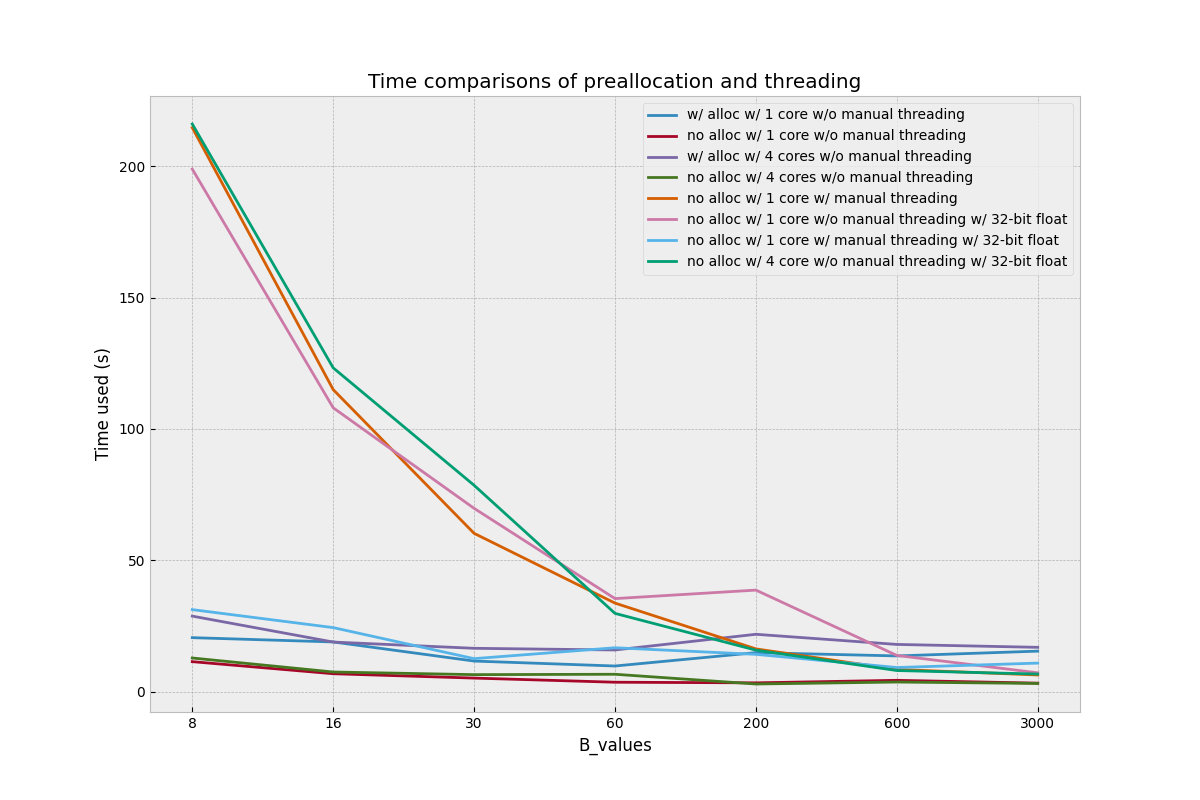
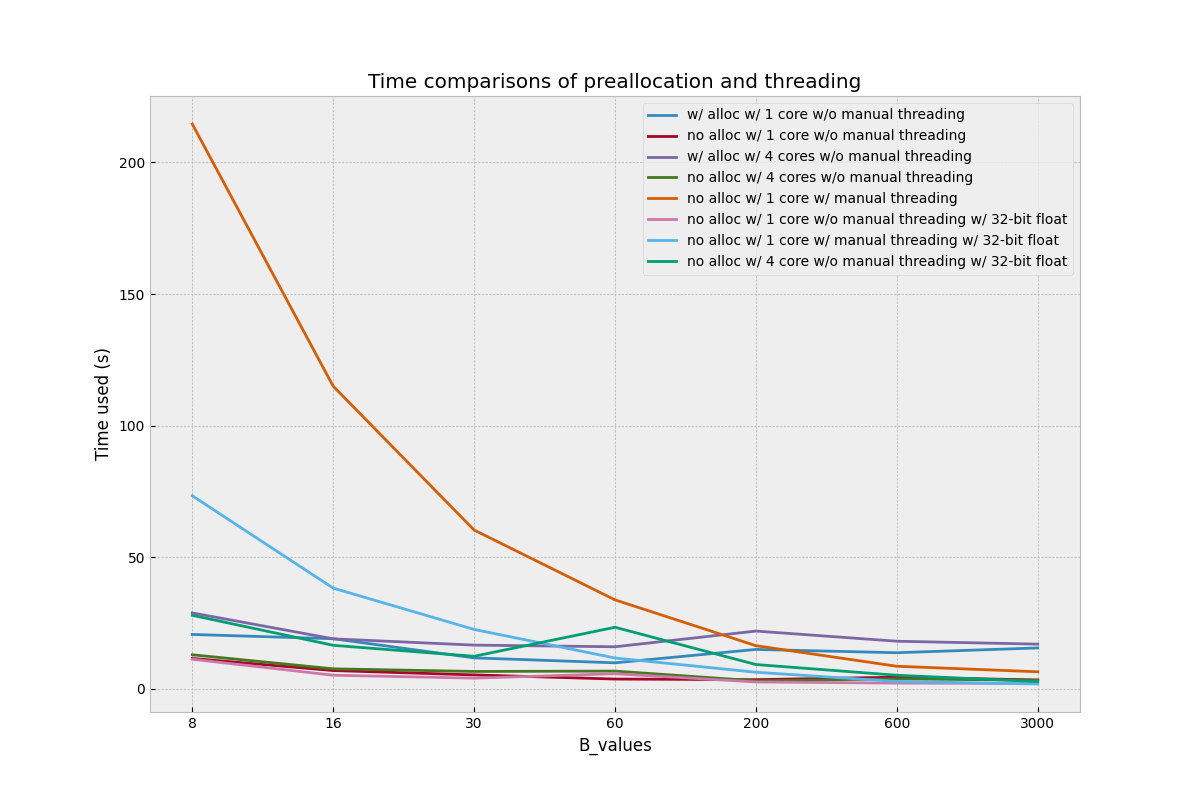
Final submission for PA6

diff --git a/pa6release/release/main.py b/pa6release/release/main.py
@@ -4,7 +4,7 @@ import os
 # BEGIN THREAD SETTINGS this sets the number of threads used by numpy in the program (should be set to 1 for Parts 1 and 3)
 import numpy as np
 
-implicit_num_threads = 4
+implicit_num_threads = 1
 os.environ["OMP_NUM_THREADS"] = str(implicit_num_threads)
 os.environ["MKL_NUM_THREADS"] = str(implicit_num_threads)
 os.environ["OPENBLAS_NUM_THREADS"] = str(implicit_num_threads)
@@ -47,7 +47,6 @@ def multinomial_logreg_grad_i(Xs, Ys, ii, gamma, W):
 
 def load_MNIST_dataset():
     PICKLE_FILE = os.path.join(mnist_data_directory, "MNIST.pickle")
-    PICKLE_FILE = "C:\\Users\\hyun0\\Documents\\CS4787\\cs4787\\pa3release\\data\\MNIST.pickle"
     try:
         dataset = pickle.load(open(PICKLE_FILE, 'rb'))
     except:
@@ -75,6 +74,8 @@ def load_MNIST_dataset():
     return dataset
 
 
+# Constants:
+B_values = [8, 16, 30, 60, 200, 600, 3000]
 
 # SGD + Momentum (adapt from Programming Assignment 3)
 #
@@ -220,9 +221,6 @@ def sgd_mss_with_momentum_threaded(Xs, Ys, gamma, W0, alpha, beta, B, num_epochs
 
     Xs_splits = []
     Ys_splits = []
-    # n = 256 = 2^8
-    # B = 16 = 2^4
-    # num_threads = 4
 
     for i in range(int(n / B * num_threads)):
         Xs_splits.append(numpy.ascontiguousarray(Xs[:, i * B_prime:i * B_prime + B_prime]))
@@ -320,15 +318,15 @@ def sgd_mss_with_momentum_noalloc_float32(Xs, Ys, gamma, W0, alpha, beta, B, num
     Xs_splits = []
     Ys_splits = []
     for i in range(int(n / B)):
-        Xs_splits.append(numpy.ascontiguousarray(Xs[:, i * B:i * B + B]))
-        Ys_splits.append(Ys[:, i * B:i * B + B])
+        Xs_splits.append(numpy.ascontiguousarray(Xs[:, i * B:i * B + B]).astype(numpy.float32))
+        Ys_splits.append(Ys[:, i * B:i * B + B].astype(numpy.float32))
 
     print("Running minibatch sequential-scan SGD with momentum (no allocation) and float32")
     for it in tqdm(range(num_epochs)):
         for ibatch in range(int(n / B)):
             # TODO this section of code should only use numpy operations with the "out=" argument specified (students should implement this)
-            XS_split = Xs_splits[ibatch].astype(numpy.float32)
-            Ys_split = Ys_splits[ibatch].astype(numpy.float32)
+            XS_split = Xs_splits[ibatch]
+            Ys_split = Ys_splits[ibatch]
 
             numpy.dot(W, XS_split, out=cb1)  # (c,d) x (d,b) = (c,b) cb1
             numpy.amax(cb1, axis=0, out=b1)  # (c,b) cb2
@@ -381,8 +379,8 @@ def sgd_mss_with_momentum_threaded_float32(Xs, Ys, gamma, W0, alpha, beta, B, nu
     # num_threads = 4
 
     for i in range(int(n / B * num_threads)):
-        Xs_splits.append(numpy.ascontiguousarray(Xs[:, i * B_prime:i * B_prime + B_prime]))
-        Ys_splits.append(Ys[:, i * B_prime:i * B_prime + B_prime])
+        Xs_splits.append(numpy.ascontiguousarray(Xs[:, i * B_prime:i * B_prime + B_prime]).astype(numpy.float32))
+        Ys_splits.append(Ys[:, i * B_prime:i * B_prime + B_prime].astype(numpy.float32))
 
     # a function for each thread to run
     def thread_main(ithread):
@@ -395,8 +393,8 @@ def sgd_mss_with_momentum_threaded_float32(Xs, Ys, gamma, W0, alpha, beta, B, nu
         for it in range(num_epochs):
             for ibatch in range(int(n / B)):
                 # TODO work done by thread in each iteration; this section of code should primarily use numpy operations with the "out=" argument specified (students should implement this)
-                Xs_split = Xs_splits[ibatch * num_threads + ithread].astype(numpy.float32)
-                Ys_split = Ys_splits[ibatch * num_threads + ithread].astype(numpy.float32)
+                Xs_split = Xs_splits[ibatch * num_threads + ithread]
+                Ys_split = Ys_splits[ibatch * num_threads + ithread]
 
                 numpy.dot(W, Xs_split, out=cb1)  # (c,d) x (d,b) = (c,b) cb1
                 numpy.amax(cb1, axis=0, out=b1)  # (c,b) cb2
@@ -440,27 +438,35 @@ def sgd_mss_with_momentum_threaded_float32(Xs, Ys, gamma, W0, alpha, beta, B, nu
     # return the learned model
     return W
 
-def plot_time(t1s,t2s,B_values,cores=1):
+def plot_time_pt1():
     pyplot.figure(figsize=(12, 8))
-    pyplot.scatter(np.linspace(np.min(B_values),np.max(B_values),len(B_values)), t1s, label="t1")
-    pyplot.scatter(np.linspace(np.min(B_values),np.max(B_values),len(B_values)), t2s, label="t2",marker='x')
-    t1_plot = pyplot.plot(np.linspace(np.min(B_values),np.max(B_values),len(B_values)), t1s)
-    t1_plot.set_label('w/o preallocation & w/o manual threading')
-    t2_plot = pyplot.plot(np.linspace(np.min(B_values),np.max(B_values),len(B_values)), t2s)
-    t2_plot.set_label('w/ preallocation & w/o manual threading')
+    t1s_single_core_filepath = 't1s_1_core.npy'
+    t2s_single_core_filepath = 't2s_1_core.npy'
+    t1s_single_core = numpy.load(t1s_single_core_filepath)
+    t2s_single_core = numpy.load(t2s_single_core_filepath)
+    # pyplot.scatter(np.linspace(np.min(B_values),np.max(B_values),len(B_values)), t1s, label="t1")
+    # pyplot.scatter(np.linspace(np.min(B_values),np.max(B_values),len(B_values)), t2s, label="t2",marker='x')
+    t1_plot, = pyplot.plot(np.linspace(np.min(B_values), np.max(B_values), len(B_values)), t1s_single_core)
+    t1_plot.set_label("w/ alloc w/ 1 core w/o manual threading")
+    t2_plot, = pyplot.plot(np.linspace(np.min(B_values), np.max(B_values), len(B_values)), t2s_single_core)
+    t2_plot.set_label("no alloc w/ 1 core w/o manual threading")
 
     pyplot.title("Time comparison of preallocation")
     pyplot.xticks(np.linspace(np.min(B_values),np.max(B_values),len(B_values)),B_values)
     pyplot.xlabel("B_values")
     pyplot.ylabel("Time used (s)")
     pyplot.legend()
-    pyplot.savefig(f"runtime_part_cores{cores}")
+    pyplot.savefig(f"Impact of Preallocation")
     pyplot.plot()
     # pyplot.show()
     # pyplot.clf()
 
-def plot_time_pt2(t1s_single_core, t2s_single_core, t1s_multi_core, t2s_multi_core, B_values, cores=implicit_num_threads):
+def plot_time_pt2(cores=implicit_num_threads):
     pyplot.figure(figsize=(12, 8))
+    t1s_single_core = numpy.load('t1s_1_core.npy')
+    t2s_single_core = numpy.load('t2s_1_core.npy')
+    t1s_multi_core = numpy.load('t1s_4_core.npy')
+    t2s_multi_core = numpy.load('t2s_4_core.npy')
     t1_plot, = pyplot.plot(np.linspace(np.min(B_values), np.max(B_values), len(B_values)), t1s_single_core)
     t1_plot.set_label(f"w/o preallocation w/ 1 core")
     t2_plot, = pyplot.plot(np.linspace(np.min(B_values), np.max(B_values), len(B_values)), t2s_single_core)
@@ -479,16 +485,13 @@ def plot_time_pt2(t1s_single_core, t2s_single_core, t1s_multi_core, t2s_multi_co
     # pyplot.show()
     # pyplot.clf()
 
-def plot_time_pt3(ts_manual_threading, B_values, cores=1):
+def plot_time_pt3(cores=1):
     pyplot.figure(figsize=(12, 8))
-    t1s_single_core_filepath = 't1s_1_core.npy'
-    t2s_single_core_filepath = 't2s_1_core.npy'
-    t1s_multi_core_filepath = f't1s_4_core.npy'
-    t2s_multi_core_filepath = f't2s_4_core.npy'
-    t1s_single_core = numpy.load(t1s_single_core_filepath)
-    t2s_single_core = numpy.load(t2s_single_core_filepath)
-    t1s_multi_core = numpy.load(t1s_multi_core_filepath)
-    t2s_multi_core = numpy.load(t2s_multi_core_filepath)
+    t1s_single_core = numpy.load('t1s_1_core.npy')
+    t2s_single_core = numpy.load('t2s_1_core.npy')
+    t1s_multi_core = numpy.load('t1s_4_core.npy')
+    t2s_multi_core = numpy.load('t2s_4_core.npy')
+    ts_manual_threading = numpy.load('manual_threaded.npy')
     t1_plot, = pyplot.plot(np.linspace(np.min(B_values), np.max(B_values), len(B_values)), t1s_single_core)
     t1_plot.set_label(f"w/o preallocation w/ 1 core w/o manual threading")
     t2_plot, = pyplot.plot(np.linspace(np.min(B_values), np.max(B_values), len(B_values)), t2s_single_core)
@@ -504,10 +507,47 @@ def plot_time_pt3(ts_manual_threading, B_values, cores=1):
     pyplot.xlabel("B_values")
     pyplot.ylabel("Time used (s)")
     pyplot.legend()
-    pyplot.savefig("Impact of Preallocation and Threading")
+    pyplot.savefig("Impact of Preallocation and Threading Types")
     pyplot.plot()
     # pyplot.show()
     # pyplot.clf()
+
+def plot_time_pt4():
+    pyplot.figure(figsize=(12, 8))
+    t1s_single_core = numpy.load('t1s_1_core.npy')
+    t2s_single_core = numpy.load('t2s_1_core.npy')
+    t1s_multi_core = numpy.load('t1s_4_core.npy')
+    t2s_multi_core = numpy.load('t2s_4_core.npy')
+    ts_manual_threading = numpy.load('manual_threaded.npy')
+    p6 = numpy.load('no_alloc_float32_1_core_no_implicit.npy')
+    p7 = numpy.load('no_alloc_float32_1_core_explicit.npy')
+    p8 = numpy.load('no_alloc_float32_1_core_implicit.npy')
+    t1_plot, = pyplot.plot(np.linspace(np.min(B_values), np.max(B_values), len(B_values)), t1s_single_core)
+    t1_plot.set_label("w/ alloc w/ 1 core w/o manual threading")
+    t2_plot, = pyplot.plot(np.linspace(np.min(B_values), np.max(B_values), len(B_values)), t2s_single_core)
+    t2_plot.set_label("no alloc w/ 1 core w/o manual threading")
+    t3_plot, = pyplot.plot(np.linspace(np.min(B_values), np.max(B_values), len(B_values)), t1s_multi_core)
+    t3_plot.set_label("w/ alloc w/ 4 cores w/o manual threading")
+    t4_plot, = pyplot.plot(np.linspace(np.min(B_values), np.max(B_values), len(B_values)), t2s_multi_core)
+    t4_plot.set_label("no alloc w/ 4 cores w/o manual threading")
+    t5_plot, = pyplot.plot(np.linspace(np.min(B_values), np.max(B_values), len(B_values)), ts_manual_threading)
+    t5_plot.set_label('no alloc w/ 1 core w/ manual threading')
+    t6_plot, = pyplot.plot(np.linspace(np.min(B_values), np.max(B_values), len(B_values)), p6)
+    t6_plot.set_label('no alloc w/ 1 core w/o manual threading w/ 32-bit float')
+    t7_plot, = pyplot.plot(np.linspace(np.min(B_values), np.max(B_values), len(B_values)), p7)
+    t7_plot.set_label('no alloc w/ 1 core w/ manual threading w/ 32-bit float')
+    t8_plot, = pyplot.plot(np.linspace(np.min(B_values), np.max(B_values), len(B_values)), p8)
+    t8_plot.set_label('no alloc w/ 4 core w/o manual threading w/ 32-bit float')
+    pyplot.title("Time comparisons of preallocation and threading")
+    pyplot.xticks(np.linspace(np.min(B_values), np.max(B_values), len(B_values)), B_values)
+    pyplot.xlabel("B_values")
+    pyplot.ylabel("Time used (s)")
+    pyplot.legend()
+    pyplot.savefig("Impact of Preallocation and Threading and Precision")
+    pyplot.plot()
+    # pyplot.show()
+    # pyplot.clf()
+
 
 
 def part12(Xs_tr, Ys_tr, Xs_te, Ys_te):
@@ -518,7 +558,6 @@ def part12(Xs_tr, Ys_tr, Xs_te, Ys_te):
     gamma = 0.0001
     num_epochs = 20
     W0 = numpy.random.rand(c,d)
-    B_values = [8,16,30,64,200,600,3000]
     # B_values = [8,16]
     t1s = []
     t2s = []
@@ -556,7 +595,7 @@ def part12(Xs_tr, Ys_tr, Xs_te, Ys_te):
     t1s_multi_core = numpy.load(t1s_multi_core_filepath)
     t2s_multi_core = numpy.load(t2s_multi_core_filepath)
 
-    plot_time_pt2(t1s_single_core, t2s_single_core, t1s_multi_core, t2s_multi_core, B_values, 4)
+    plot_time_pt2(t1s_single_core, t2s_single_core, t1s_multi_core, t2s_multi_core, 4)
 
 def part3(Xs_tr, Ys_tr, Xs_te, Ys_te):
     (d, n) = Xs_tr.shape
@@ -567,7 +606,6 @@ def part3(Xs_tr, Ys_tr, Xs_te, Ys_te):
     num_epochs = 20
     n_threads = 4
     W0 = numpy.random.rand(c,d)
-    B_values = [8,16,30,60,200,600,3000]
     t3s = []
     for B_size in B_values:
         B = B_size
@@ -584,7 +622,7 @@ def part3(Xs_tr, Ys_tr, Xs_te, Ys_te):
     t3s = numpy.asarray(t3s)
     t3s_filepath = f'manual_threaded.npy'
     numpy.save(t3s_filepath, t3s)
-    plot_time_pt3(t3s, B_values)
+    plot_time_pt3(t3s)
 
 def part4(Xs_tr, Ys_tr, Xs_te, Ys_te):
     (d, n) = Xs_tr.shape
@@ -595,82 +633,34 @@ def part4(Xs_tr, Ys_tr, Xs_te, Ys_te):
     num_epochs = 20
     W0 = numpy.random.rand(c,d)
     n_threads = 4
-    B_values = [8,16,30,60,200,600,3000]
-    # B_values = [8,16]
     t1s = []
     t2s = []
     t3s = []
     for B_size in B_values:
         B = B_size
         print("Batch size: ", B_size)
-        t1 = time.time()
-        model1_w = sgd_mss_with_momentum_threaded_float32(Xs_tr, Ys_tr, gamma, W0, alpha, beta, B, num_epochs,n_threads)
-        t1 = time.time() - t1
-        print("\ttime for sgd_mss_with_momentum_noalloc_float32:", t1)
+        # t1 = time.time()
+        # model1_w = sgd_mss_with_momentum_threaded_float32(Xs_tr, Ys_tr, gamma, W0, alpha, beta, B, num_epochs,n_threads)
+        # t1 = time.time() - t1
+        # print("\ttime for sgd_mss_with_momentum_threaded_float32:", t1)
 
         t2 = time.time()
-        # model2_w = sgd_mss_with_momentum_noalloc_float32(Xs_tr, Ys_tr, gamma, W0, alpha, beta, B, num_epochs)
+        model2_w = sgd_mss_with_momentum_noalloc_float32(Xs_tr, Ys_tr, gamma, W0, alpha, beta, B, num_epochs)
         t2 = time.time() - t2
-        print("\ttime for sgd_mss_with_momentum_threaded_float32:", t2)
+        print("\ttime for sgd_mss_with_momentum_noalloc_float32:", t2)
 
-        err1 = multinomial_logreg_error(Xs_te, Ys_te, model1_w)
+        # err1 = multinomial_logreg_error(Xs_te, Ys_te, model1_w)
         # err2 = multinomial_logreg_error(Xs_te, Ys_te, model2_w)
         # print("\terror1: ", err1, ".\n\terror2 ", err2)
 
-        t1s.append(t1)
+        # t1s.append(t1)
         t2s.append(t2)
-    t1s = numpy.asarray(t1s)
-    # t2s = numpy.asarray(t2s)
-    t1s_filepath = f'no_alloc_float32_1_core_implicit.npy'
-    # t2s_filepath = f'no_alloc_float32_1_core_explicit.npy'
-    numpy.save(t1s_filepath, t1s)
-    # numpy.save(t2s_filepath, t2s)
-    # plot_time_pt3(t1s, t2s, B_values)
-
-def plot_all():
-    B_values = [8, 16, 30, 60, 200, 600, 3000]
-    pyplot.figure(figsize=(12, 8))
-    t1s_single_core_filepath = 't1s_1_core.npy'
-    t2s_single_core_filepath = 't2s_1_core.npy'
-    t1s_multi_core_filepath = 't1s_4_core.npy'
-    t2s_multi_core_filepath = 't2s_4_core.npy'
-    ts_manual_threading_filepath = 'manual_threaded.npy'
-    plot6_data_filepath = 'no_alloc_float32_1_core_no_implicit.npy'
-    plot7_data_filepath = 'no_alloc_float32_1_core_explicit.npy'
-    plot8_data_filepath = 'no_alloc_float32_1_core_implicit.npy'
-    t1s_single_core = numpy.load(t1s_single_core_filepath)
-    t2s_single_core = numpy.load(t2s_single_core_filepath)
-    t1s_multi_core = numpy.load(t1s_multi_core_filepath)
-    t2s_multi_core = numpy.load(t2s_multi_core_filepath)
-    ts_manual_threading = numpy.load(ts_manual_threading_filepath)
-    p6 = numpy.load(plot6_data_filepath)
-    p7 = numpy.load(plot7_data_filepath)
-    p8 = numpy.load(plot8_data_filepath)
-    t1_plot, = pyplot.plot(np.linspace(np.min(B_values), np.max(B_values), len(B_values)), t1s_single_core)
-    t1_plot.set_label("w/ alloc w/ 1 core w/o manual threading")
-    t2_plot, = pyplot.plot(np.linspace(np.min(B_values), np.max(B_values), len(B_values)), t2s_single_core)
-    t2_plot.set_label("no alloc w/ 1 core w/o manual threading")
-    t3_plot, = pyplot.plot(np.linspace(np.min(B_values), np.max(B_values), len(B_values)), t1s_multi_core)
-    t3_plot.set_label("w/ alloc w/ 4 cores w/o manual threading")
-    t4_plot, = pyplot.plot(np.linspace(np.min(B_values), np.max(B_values), len(B_values)), t2s_multi_core)
-    t4_plot.set_label("no alloc w/ 4 cores w/o manual threading")
-    t5_plot, = pyplot.plot(np.linspace(np.min(B_values), np.max(B_values), len(B_values)), ts_manual_threading)
-    t5_plot.set_label('no alloc w/ 1 core w/ manual threading')
-    t6_plot, = pyplot.plot(np.linspace(np.min(B_values), np.max(B_values), len(B_values)), p6)
-    t6_plot.set_label('no alloc w/ 1 core w/o manual threading w/ 32-bit float')
-    t7_plot, = pyplot.plot(np.linspace(np.min(B_values), np.max(B_values), len(B_values)), p7)
-    t7_plot.set_label('no alloc w/ 1 core w/ manual threading w/ 32-bit float')
-    t8_plot, = pyplot.plot(np.linspace(np.min(B_values), np.max(B_values), len(B_values)), p8)
-    t8_plot.set_label('no alloc w/ 4 core w/o manual threading w/ 32-bit float')
-    pyplot.title("Time comparisons of preallocation and threading")
-    pyplot.xticks(np.linspace(np.min(B_values), np.max(B_values), len(B_values)), B_values)
-    pyplot.xlabel("B_values")
-    pyplot.ylabel("Time used (s)")
-    pyplot.legend()
-    pyplot.savefig("Impact of Preallocation and Threading and Precision")
-    pyplot.plot()
-    # pyplot.show()
-    # pyplot.clf()
+    # t1s = numpy.asarray(t1s)
+    t2s = numpy.asarray(t2s)
+    # t1s_filepath = f'no_alloc_float32_1_core_explicit.npy'
+    t2s_filepath = f'no_alloc_float32_1_core_implicit.npy'
+    # numpy.save(t1s_filepath, t1s)
+    numpy.save(t2s_filepath, t2s)
 
 
 if __name__ == "__main__":
@@ -678,6 +668,6 @@ if __name__ == "__main__":
     # part12(Xs_tr, Ys_tr, Xs_te, Ys_te)
     # part3(Xs_tr, Ys_tr, Xs_te, Ys_te)
     # part4(Xs_tr, Ys_tr, Xs_te, Ys_te)
-    plot_all()
-
+    plot_time_pt4()
+    #
     # TODO add code to produce figures
